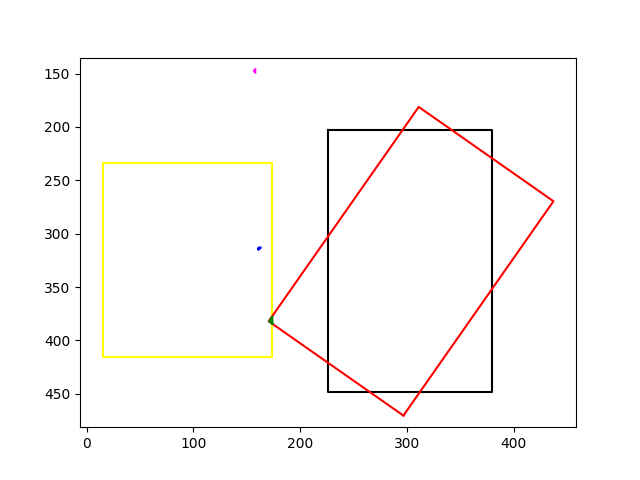
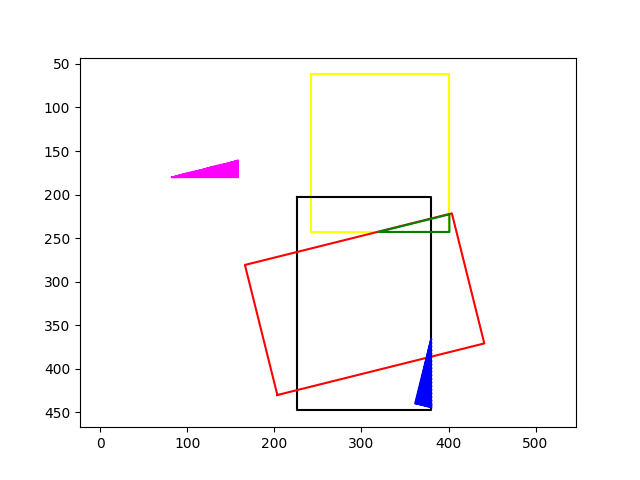
Rotate uses ready function of shapely

diff --git a/CoordinateSystem.py b/CoordinateSystem.py
@@ -1,6 +1,7 @@
 from shapely.geometry import Polygon
 from shapely.geometry import Point
 from shapely.affinity import affine_transform
+from shapely.affinity import rotate
 from shapely.geometry import LineString
 from shapely.wkt import loads
 from shapely.wkt import dumps
@@ -32,14 +33,17 @@ class CoordinateSystem:
         
     def rotateElement(self,geometricFigure, thetha):
         # Start = time.time()
-        a = math.cos(thetha)
-        b = math.sin(thetha)
-        centrex = self.centreOfRectangle2[0]
-        centrey = self.centreOfRectangle2[1]
-        #M = [[a,b,(1-a)*centrex-b*centrey],[-b,a,b*centrex+(1-a)*centrey],[0,0,1]]
-        M = [a,-b,b,a,(1-a)*centrex+b*centrey,centrey -b*centrex-a*centrey]
-        rotated = affine_transform(geometricFigure,M)
-        rotated = loads(dumps(rotated, rounding_precision=0))
+        # a = math.cos(thetha)
+        # b = math.sin(thetha)
+        centrex, centrey = Polygon(self.rectangle2).centroid.coords.xy
+        centrex, centrey = centrex[0], centrey[0]
+        # M = [a,-b,b,a,(1-a)*centrex+b*centrey,centrey -b*centrex-a*centrey]
+        # rotated = affine_transform(geometricFigure,M)
+        # rotated = loads(dumps(rotated, rounding_precision=0))
+
+        rotated = rotate(geometricFigure, thetha,origin=(centrex,centrey))
+        
+        
         # end = time.time()
         # print("Rotate line: ",end-Start,"\n\n" )
         return rotated
@@ -127,7 +131,7 @@ class CoordinateSystem:
         coordintes_of_intersection = self.get_coordinates_in_polygon(intersection)
         if coordintes_of_intersection == -1:
             return -1
-        initialPolygon2 = self.rotateElement(coordintes_of_intersection,360-thetha)
+        initialPolygon2 = self.rotateElement(coordintes_of_intersection,-thetha)
         initialPolygon1 = self.shiftAnElement(coordintes_of_intersection,SHIFT_X,SHIFT_Y)
         x2, y2 =initialPolygon2.coords.xy	
         plt.plot(x2, y2,color='blue')
@@ -137,6 +141,6 @@ class CoordinateSystem:
         # coordinates_in_polygon1[1] = coordinates_in_polygon1[1] - SHIFT_X
         coordinates_in_polygon1 = self.makeImageCoordinateFormat(coordinates_in_polygon1)
         coordinates_in_polygon2 = self.makeImageCoordinateFormat(coordinates_in_polygon2)
-        # plt.axis('equal')
-        # plt.savefig("polygon.png")
+        plt.axis('equal')
+        plt.savefig("polygon.png")
         return (coordinates_in_polygon1, coordinates_in_polygon2)

diff --git a/ImageStitcher.py b/ImageStitcher.py
@@ -43,7 +43,6 @@ class ImageStitcher:
         SHIFT_X,SHIFT_Y, thetha = SHIFT
         SHIFT_X, SHIFT_Y, thetha = int(SHIFT_X*(self.w1+self.w2)),int(SHIFT_Y*(self.h1+self.h2)),int(thetha*360)
         # SHIFT_X, SHIFT_Y, thetha = int(SHIFT_X),int(SHIFT_Y),int(thetha)
-        # print("\rSHIFT_X: ",SHIFT_X,"    SHIFT_Y: ",SHIFT_Y,"    Angle: ",thetha)
         sys.stdout.write("\r    SHIFT_X:{0},    SHIFT_Y:{1},    Angle:{2}         ☚||||".format(SHIFT_X,SHIFT_Y,thetha))
         if (SHIFT_X>=self.w1+self.img2_canvas_size-self.img2_canvas_size*0.05 or SHIFT_Y>=self.h1+self.img2_canvas_size-self.img2_canvas_size*0.05 or SHIFT_Y<self.img2_canvas_size*0.05 or SHIFT_X<self.img2_canvas_size*0.05):
             return 255*3*self.w1*self.h1*self.h2*self.w2

diff --git a/test_coor_system.py b/test_coor_system.py
@@ -27,15 +27,15 @@ def getCornersOfImages(SHIFT):
     (w1+x_OffsetIMG2+w2,h1+y_OffsetIMG2+h2),(w1+x_OffsetIMG2,h1+y_OffsetIMG2+h2)]
     return rectangle1,rectangle2
 
-rectangles = getCornersOfImages((15,234,215))
+rectangles = getCornersOfImages((242,62,256))
 print(rectangles)
 coor_system.set_rectangles(rectangles)
-num = coor_system.get_indecies_on_rotate(15,234,215)
+num = coor_system.get_indecies_on_rotate(242,62,256)
 
 st = ImageStitcher(img1,img2,False)
-st.drawImage(15,234,360-215,0)
+st.drawImage(242,62,360-256,0)
 st.set_canvas()
-print(st.calculateLoss((15,234,215)))
+print(st.calculateLoss((242,62,256)))
 # print(st.calculateLoss((92,92,45)))
 print(num[1][0])
 canvas[num[0][:]] = 240
